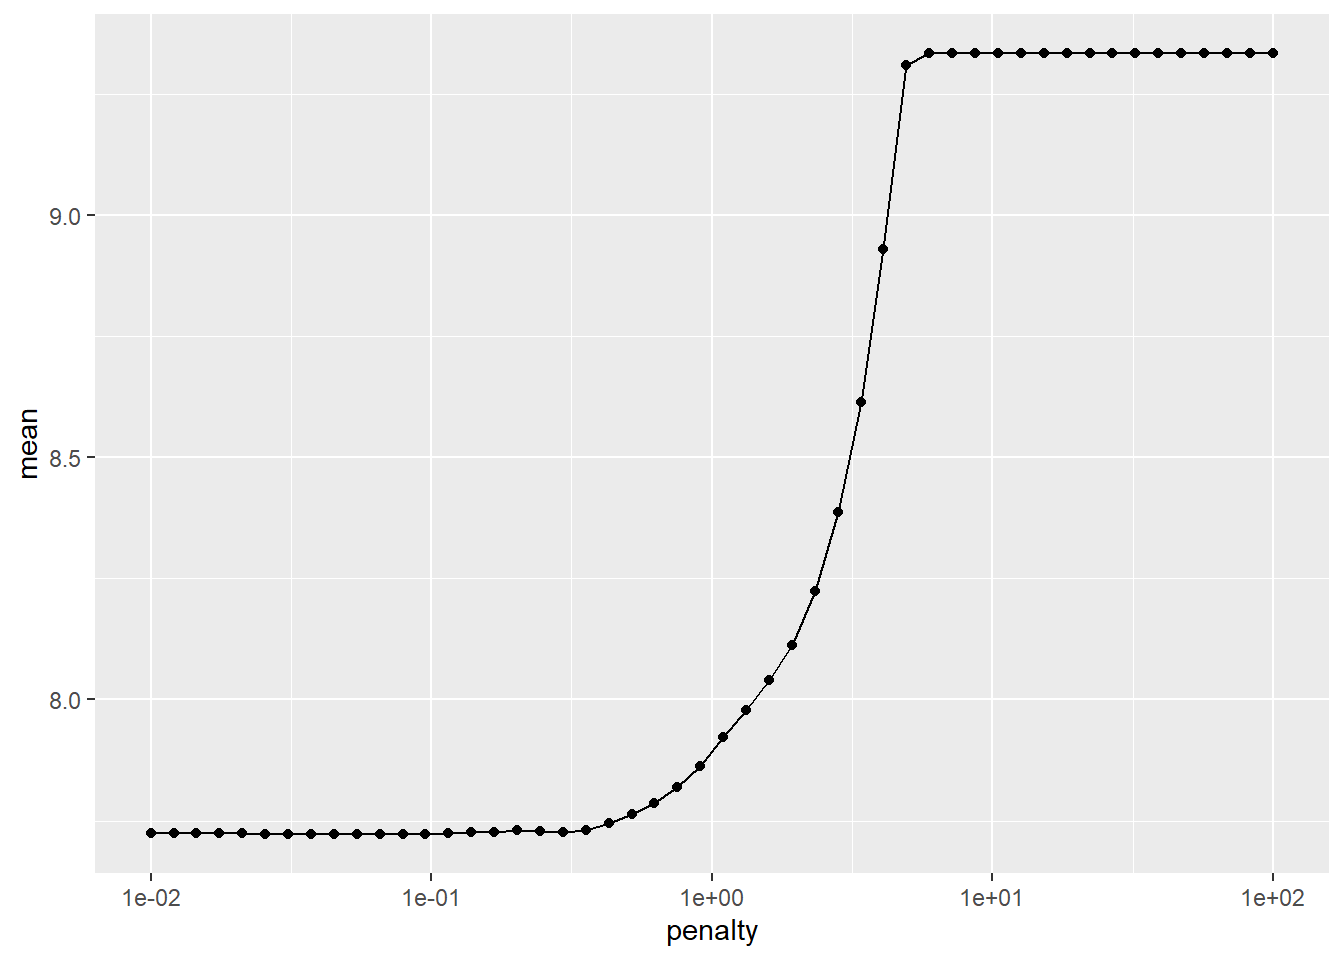
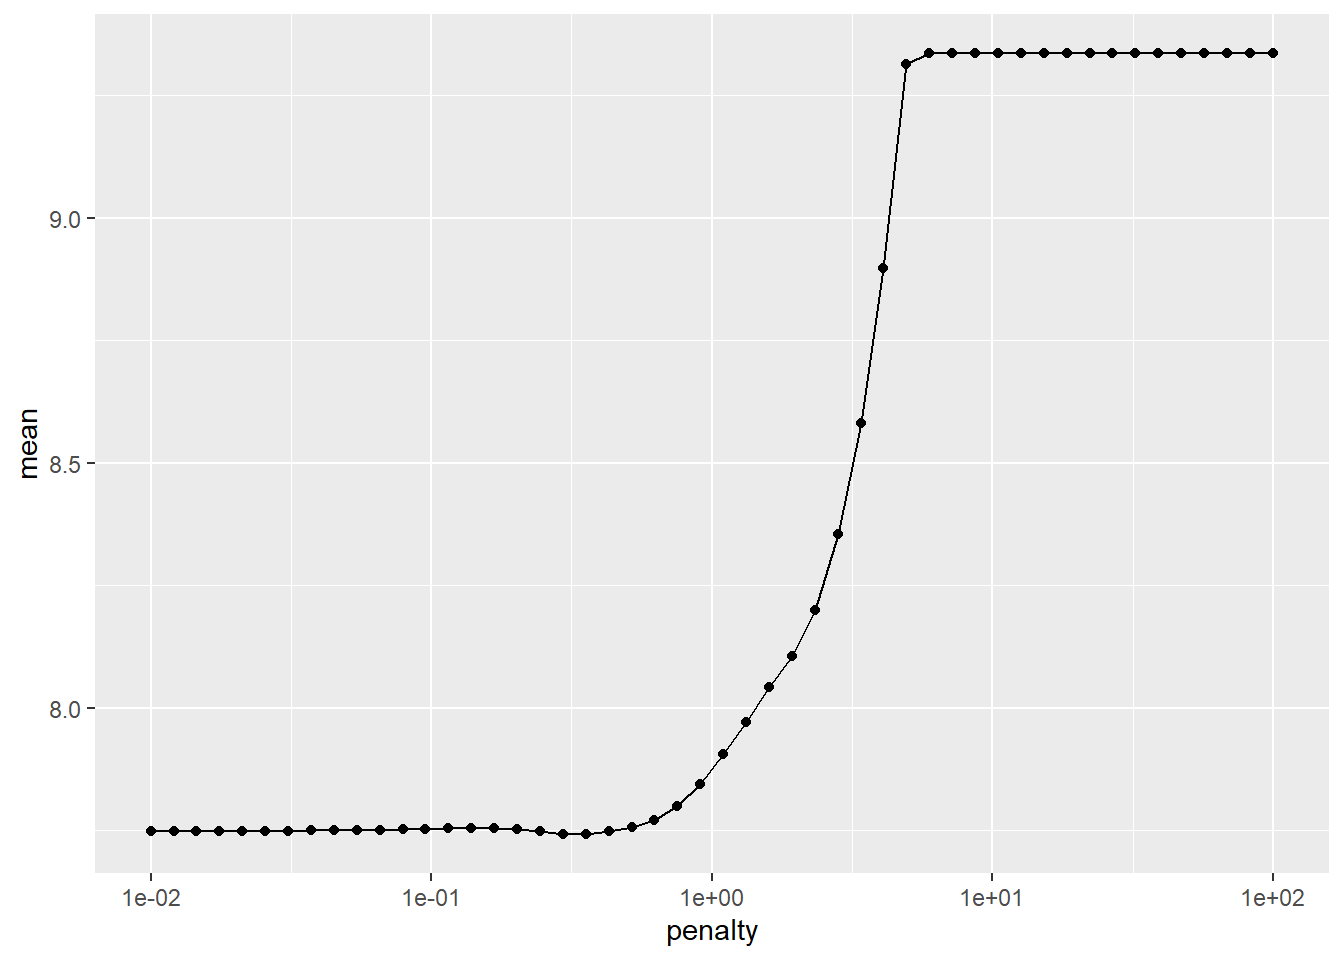
try 5

diff --git a/docs/excel_personel_budget_proj.html b/docs/excel_personel_budget_proj.html
@@ -7,7 +7,7 @@
 <meta name="viewport" content="width=device-width, initial-scale=1.0, user-scalable=yes">
 
 
-<title>Caleb Vander Wall</title>
+<title>Calvary Membership Data Project – Caleb Vander Wall</title>
 <style>
 code{white-space: pre-wrap;}
 span.smallcaps{font-variant: small-caps;}
@@ -33,6 +33,7 @@ ul.task-list li input[type="checkbox"] {
 <script src="site_libs/quarto-html/quarto.js"></script>
 <script src="site_libs/quarto-html/popper.min.js"></script>
 <script src="site_libs/quarto-html/tippy.umd.min.js"></script>
+<script src="site_libs/quarto-html/anchor.min.js"></script>
 <link href="site_libs/quarto-html/tippy.css" rel="stylesheet">
 <link href="site_libs/quarto-html/quarto-syntax-highlighting.css" rel="stylesheet" id="quarto-text-highlighting-styles">
 <script src="site_libs/bootstrap/bootstrap.min.js"></script>
@@ -67,9 +68,7 @@ ul.task-list li input[type="checkbox"] {
 }</script>
 
 
-<meta property="og:title" content="Caleb Vander Wall">
-<meta property="og:description" content="Student">
-<meta property="og:image" content="caleb2.png">
+<meta property="og:title" content="Calvary Membership Data Project – Caleb Vander Wall">
 <meta property="og:site_name" content="Caleb Vander Wall">
 </head>
 
@@ -91,7 +90,7 @@ ul.task-list li input[type="checkbox"] {
           <div class="collapse navbar-collapse" id="navbarCollapse">
             <ul class="navbar-nav navbar-nav-scroll ms-auto">
   <li class="nav-item">
-    <a class="nav-link active" href="./index.html" aria-current="page"> 
+    <a class="nav-link" href="./index.html"> 
 <span class="menu-text">C.V.</span></a>
   </li>  
   <li class="nav-item">
@@ -107,7 +106,7 @@ ul.task-list li input[type="checkbox"] {
 <span class="menu-text">Magic Cube Project</span></a>
   </li>  
   <li class="nav-item">
-    <a class="nav-link" href="./excel_personel_budget_proj.html"> 
+    <a class="nav-link active" href="./excel_personel_budget_proj.html" aria-current="page"> 
 <span class="menu-text">Personel Budget in Excel</span></a>
   </li>  
 </ul>
@@ -123,55 +122,37 @@ ul.task-list li input[type="checkbox"] {
 <!-- margin-sidebar -->
     
 <!-- main -->
-<div class="quarto-about-trestles">
-  <div class="about-entity">
-    <img src="caleb2.png" class="about-image
-  rounded " style="width: 20em;">
+<main class="content" id="quarto-document-content">
+
 <header id="title-block-header" class="quarto-title-block default">
 <div class="quarto-title">
-<h1 class="title">Caleb Vander Wall</h1>
-<p class="subtitle lead">Student</p>
+<h1 class="title">Calvary Membership Data Project</h1>
 </div>
+
+
+
 <div class="quarto-title-meta">
+
+    
+  
+    
   </div>
+  
+
+
 </header>
-    <div class="about-links">
-  <a href="https://github.com/CalebVanderWall" class="about-link" rel="" target="">
-    <i class="bi bi-github"></i>
-     <span class="about-link-text">Github</span>
-  </a>
-  <a href="https://www.linkedin.com/in/caleb-vander-wall-6687902b7/" class="about-link" rel="" target="">
-    <i class="bi bi-linkedin"></i>
-     <span class="about-link-text">Linkedin</span>
-  </a>
-</div>
-  </div>
-  <div class="about-contents"><main class="content" id="quarto-document-content">
-<p>Mathematics graduate specializing in Probability and Statistics with strong foundations in data analysis, machine learning, and statistical modeling. Experienced in building predictive models and extracting actionable insights from complex real-world datasets. Proficient in R, Python, and Excel, seeking an entry-level role in data science, analytics, or related fields.</p>
-<section id="education" class="level2">
-<h2 data-anchor-id="education">Education</h2>
-<p><strong>Santiago Canyon College</strong> | Orange | 2018 - 2020</p>
-<p><strong>California State University</strong> Fullerton | Fullerton | 2023 - Present</p>
-</section>
-<section id="experience" class="level2">
-<h2 data-anchor-id="experience">Experience</h2>
-<p><strong>Calvary Church Santa Ana</strong> | High School Coordinator | June 2022 - present</p>
-<p><strong>Vans</strong> | Sales Associate | July 2018 - March 2020</p>
-</section>
-<section id="projects" class="level2">
-<h2 data-anchor-id="projects">Projects</h2>
-<p><strong>Taylor Swift’s Effect on Chiefs’ Performance</strong> | Causal Analysis | R | 2025</p>
-<p>This project explores the “Taylor Swift effect” on the Kansas City Chiefs’ performance by estimating the causal impact of her game attendance on points scored. Using counter factual predictions and treatment effect estimators (ATE, ATT, ATU), the analysis finds only weak evidence of a slight increase in team scoring associated with her presence.</p>
-<p><strong>Calvary Church of Santa Ana Membership Data</strong> | Data Analysis/Visualization | Microsoft Power BI |2025</p>
-<p>This project analyzes membership data from a church organization to identify trends in data quality and member engagement. Dashboards were developed in Power BI using Power Query and DAX to clean, model, and visualize the data. The analysis was conducted at the request of the organization to support improved reporting accuracy and more effective engagement strategies.</p>
-<p><strong>Magic Cube Generator/Detector</strong> | Mathematics/Programming | MATLAB |2023</p>
-<p>This project involves generating and testing three-dimensional magic cubes using customizable movement algorithms. The program fills an n×n×n cube with sequential distinct integers, starting from a user-defined position and following specified directional movement rules. If a chosen position is already occupied, the algorithm applies primary and secondary conflict-resolution movements to determine the next placement. The cube uses wrap-around behavior at boundaries, similar to a 3D “Pac-Man” board, ensuring all positions remain within bounds. After construction, the function verifies whether the resulting cube is magic by checking if all rows, columns, and diagonals sum to the same constant.</p>
+
+
+<section id="project-walkthrough" class="level2">
+<h2 class="anchored" data-anchor-id="project-walkthrough">Project Walkthrough</h2>
+<video controls="" width="100%">
+<source src="videos/ebp.mp4" type="video/mp4">
+</video>
 
 
 </section>
-</main></div>
-</div>
- <!-- /main -->
+
+</main> <!-- /main -->
 <script id="quarto-html-after-body" type="application/javascript">
 window.document.addEventListener("DOMContentLoaded", function (event) {
   const toggleBodyColorMode = (bsSheetEl) => {
@@ -192,6 +173,13 @@ window.document.addEventListener("DOMContentLoaded", function (event) {
     }
   }
   toggleBodyColorPrimary();  
+  const icon = "";
+  const anchorJS = new window.AnchorJS();
+  anchorJS.options = {
+    placement: 'right',
+    icon: icon
+  };
+  anchorJS.add('.anchored');
   const isCodeAnnotation = (el) => {
     for (const clz of el.classList) {
       if (clz.startsWith('code-annotation-')) {                     

diff --git a/docs/FinalProject.html b/docs/FinalProject.html
@@ -169,6 +169,10 @@ window.Quarto = {
     <a class="nav-link" href="./MagicCubeProject.html"> 
 <span class="menu-text">Magic Cube Project</span></a>
   </li>  
+  <li class="nav-item">
+    <a class="nav-link" href="./excel_personel_budget_proj.html"> 
+<span class="menu-text">Personel Budget in Excel</span></a>
+  </li>  
 </ul>
           </div> <!-- /navcollapse -->
             <div class="quarto-navbar-tools">
@@ -690,7 +694,7 @@ New names:
 <pre><code># A tibble: 1 × 2
   penalty .config              
     &lt;dbl&gt; &lt;chr&gt;                
-1  0.0655 Preprocessor1_Model11</code></pre>
+1   0.356 Preprocessor1_Model20</code></pre>
 </div>
 <div class="sourceCode cell-code" id="cb20"><pre class="sourceCode r code-with-copy"><code class="sourceCode r"><span id="cb20-1"><a href="#cb20-1" aria-hidden="true" tabindex="-1"></a>lasso_wflow_final <span class="ot">&lt;-</span> kcc_lasso_wflow <span class="sc">|&gt;</span></span>
 <span id="cb20-2"><a href="#cb20-2" aria-hidden="true" tabindex="-1"></a>  <span class="fu">finalize_workflow</span>(<span class="at">parameters =</span> lasso_best) </span></code><button title="Copy to Clipboard" class="code-copy-button"><i class="bi"></i></button></pre></div>
@@ -707,16 +711,16 @@ New names:
 <pre><code># A tibble: 10 × 3
    term        estimate penalty
    &lt;chr&gt;          &lt;dbl&gt;   &lt;dbl&gt;
- 1 (Intercept)   27.8    0.0655
- 2 PtA           -0.787  0.0655
- 3 FirstD         1.03   0.0655
- 4 TotYd          3.85   0.0655
- 5 PassY          0      0.0655
- 6 RushY          0.946  0.0655
- 7 FirstD_Alwd    1.92   0.0655
- 8 TotYd_Alwd     0      0.0655
- 9 PassY_Alwd     0.733  0.0655
-10 RushY_Alwd    -0.477  0.0655</code></pre>
+ 1 (Intercept)   27.8     0.356
+ 2 PtA            0       0.356
+ 3 FirstD         0.707   0.356
+ 4 TotYd          3.70    0.356
+ 5 PassY          0       0.356
+ 6 RushY          0.804   0.356
+ 7 FirstD_Alwd    1.15    0.356
+ 8 TotYd_Alwd     0       0.356
+ 9 PassY_Alwd     0.521   0.356
+10 RushY_Alwd    -0.243   0.356</code></pre>
 </div>
 </div>
 <p>Here we can see that important variables include Points Allowed (PtA), First Down Count (FirstD), Total Yards (TotYd), total Rusing Yards (RushY), First Downs Allowed (FirstD_Alwd), Passing Yards Allowed (PassY_Alwd) and Rushing Yards Allowed (RushY_Alwd). We will proceed to use these variables in our following models.</p>

diff --git a/docs/MagicCubeProject.html b/docs/MagicCubeProject.html
@@ -135,6 +135,10 @@ window.Quarto = {
     <a class="nav-link active" href="./MagicCubeProject.html" aria-current="page"> 
 <span class="menu-text">Magic Cube Project</span></a>
   </li>  
+  <li class="nav-item">
+    <a class="nav-link" href="./excel_personel_budget_proj.html"> 
+<span class="menu-text">Personel Budget in Excel</span></a>
+  </li>  
 </ul>
           </div> <!-- /navcollapse -->
             <div class="quarto-navbar-tools">

diff --git a/docs/calvary_mem_proj.html b/docs/calvary_mem_proj.html
@@ -106,6 +106,10 @@ ul.task-list li input[type="checkbox"] {
     <a class="nav-link" href="./MagicCubeProject.html"> 
 <span class="menu-text">Magic Cube Project</span></a>
   </li>  
+  <li class="nav-item">
+    <a class="nav-link" href="./excel_personel_budget_proj.html"> 
+<span class="menu-text">Personel Budget in Excel</span></a>
+  </li>  
 </ul>
           </div> <!-- /navcollapse -->
             <div class="quarto-navbar-tools">
